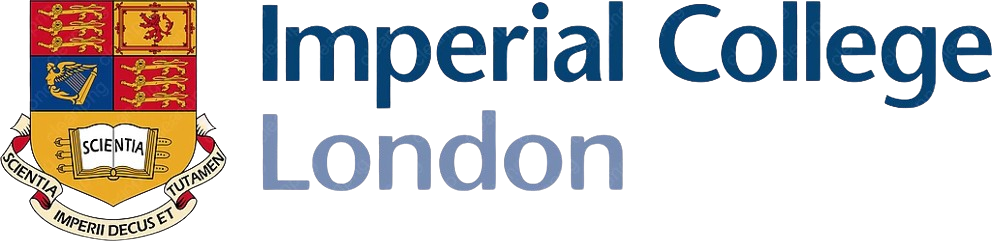
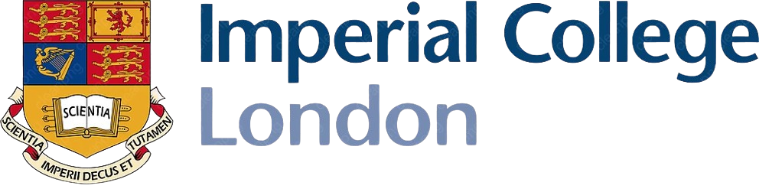
Mobile: eliminate remaining scroll-crash load, visually invisible
The phone still OOM-crashed while scrolling after the first pass. This
round removes the remaining GPU/RAM load with no visible change:

- Downscale the 4 marquee logo PNGs in place (they decoded at up to
  1280x1427 — ~12MB of RAM — to display at 26-38px tall; now 192px tall,
  ~1.5MB total decoded, still 4x oversampled so rendering is identical).
- Cap the devicePixelRatio the Framer runtime sees at 2 on phones. The
  background particle canvas is a position:fixed layer that re-renders
  through a live blur() on every frame of the entire scroll; at 3x that
  pipeline was a constant GPU drain. At 2x (behind blur + reduced
  opacity) the difference is imperceptible and per-frame cost/memory
  drops ~2.25x. Native <img srcset> uses the real device DPR, unaffected.
- Release the ~14 inline will-change:transform GPU layers that Framer
  pins for its one-shot hero appear animations (measured 14 -> 0 after
  the strip passes; layers collapse with zero visual change).
- content-visibility:auto on the 980px Scan/Sculpt/Satisfy feature
  section, which hid inside a display:contents ssr-variant wrapper and
  was missed by the first pass (verified: skipped height == rendered
  height == 980px, so no scroll jump). Trued-up the other sections'
  contain-intrinsic-size estimates to freshly measured heights.

All phone-gated (<=860px) except the logo files, which render
identically everywhere. Verified in Chromium mobile emulation: DPR cap
[…]

diff --git a/assets/athli-enhance.js b/assets/athli-enhance.js
@@ -45,6 +45,46 @@
   var RAF0 = window.requestAnimationFrame
     ? window.requestAnimationFrame.bind(window)
     : function (f) { return setTimeout(function () { f(Date.now()); }, 16); };
+  /* Phones: cap the pixel ratio the Framer runtime sees at 2 (some phones are 3x).
+     The background particle canvas sizes its GL framebuffer from this, and it is a
+     position:fixed layer that re-renders through a live blur() on EVERY frame of
+     the whole scroll — at 3x that pipeline pushes low-RAM phones over the edge
+     (tab crash mid-scroll). At 2x, behind the blur + reduced opacity, the
+     difference is imperceptible; the per-frame GPU cost/memory drops ~2.25x.
+     Native <img srcset> selection uses the real device DPR and is unaffected. */
+  (function capMobileDpr() {
+    try {
+      if (!window.matchMedia || !window.matchMedia("(max-width: 860px)").matches) return;
+      if (window.devicePixelRatio > 2) {
+        Object.defineProperty(window, "devicePixelRatio", {
+          get: function () { return 2; },
+          configurable: true
+        });
+      }
+    } catch (e) {}
+  })();
+
+  /* Phones: Framer's SSR pins ~14 hero elements with inline will-change:transform
+     for their one-shot appear animations, holding GPU layers (textures) forever.
+     Release them once the appear animations are done — the layers collapse with
+     zero visual change and the memory comes back. Two passes in case the runtime
+     re-renders after hydration. */
+  (function releaseWillChangeOnMobile() {
+    try {
+      if (!window.matchMedia || !window.matchMedia("(max-width: 860px)").matches) return;
+    } catch (e) { return; }
+    function strip() {
+      try {
+        var els = document.querySelectorAll('[data-framer-root] [style*="will-change"]');
+        for (var i = 0; i < els.length; i++) {
+          if (getComputedStyle(els[i]).willChange === "transform") els[i].style.willChange = "auto";
+        }
+      } catch (e) {}
+    }
+    setTimeout(strip, 4000);
+    setTimeout(strip, 10000);
+  })();
+
   (function slowBackgroundOnMobile() {
     var isMobile = false;
     try { isMobile = window.matchMedia && window.matchMedia("(max-width: 860px)").matches; } catch (e) {}

diff --git a/assets/athli-enhance.css b/assets/athli-enhance.css
@@ -1231,9 +1231,13 @@ iframe[src*="framer.com/edit"], iframe[src*="framer.com/_edit"] { display: none 
      Heights measured live at 393px. NB: `.framer-f786x8` is a Framer-hashed class
      (the FAQ) — re-measure if the site is ever re-exported from Framer. */
   .ath-stats      { content-visibility: auto; contain-intrinsic-size: auto 1060px; }
-  .ath-calc       { content-visibility: auto; contain-intrinsic-size: auto 770px; }
-  .framer-f786x8  { content-visibility: auto; contain-intrinsic-size: auto 379px; }
-  .ath-cg-section { content-visibility: auto; contain-intrinsic-size: auto 220px; }
+  .ath-calc       { content-visibility: auto; contain-intrinsic-size: auto 820px; }
+  .framer-f786x8  { content-visibility: auto; contain-intrinsic-size: auto 410px; }
+  /* Scan/Sculpt/Satisfy feature cards — 980px of always-rendered content missed in
+     the first pass (it hides inside a display:contents ssr-variant wrapper, so it
+     never showed up as a root child). Framer-hashed class too — re-check on re-export. */
+  .framer-1pkm4pd-container { content-visibility: auto; contain-intrinsic-size: auto 980px; }
+  .ath-cg-section { content-visibility: auto; contain-intrinsic-size: auto 250px; }
 
   /* P4 — Dark mode is currently dormant (toggle not wired), but if it is ever
      enabled the full-page filter:invert() would instantly crash a phone. Never
